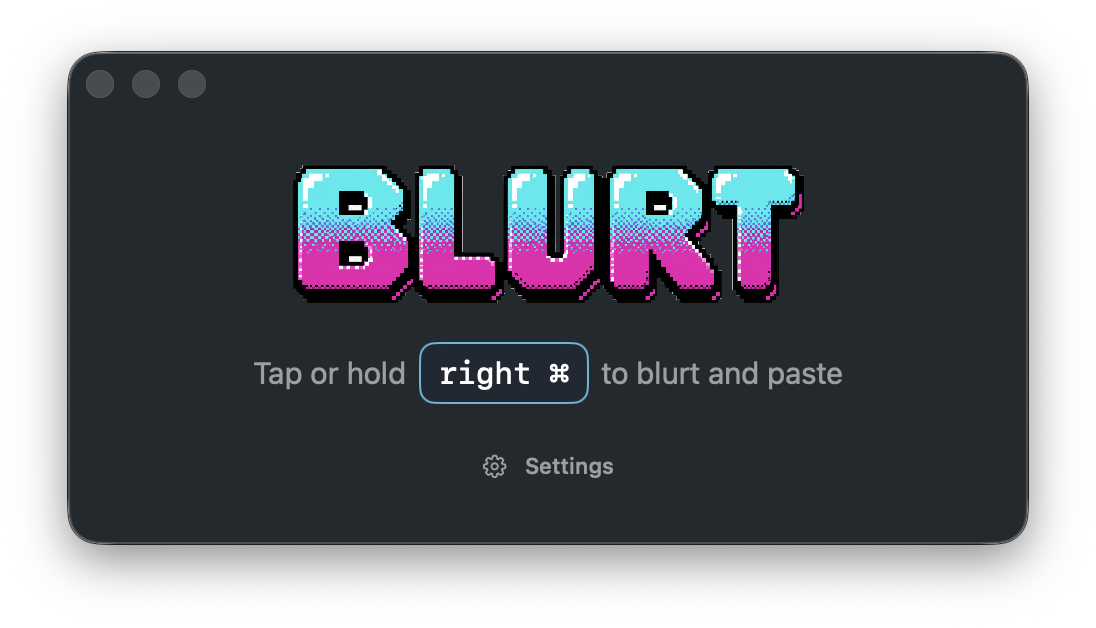
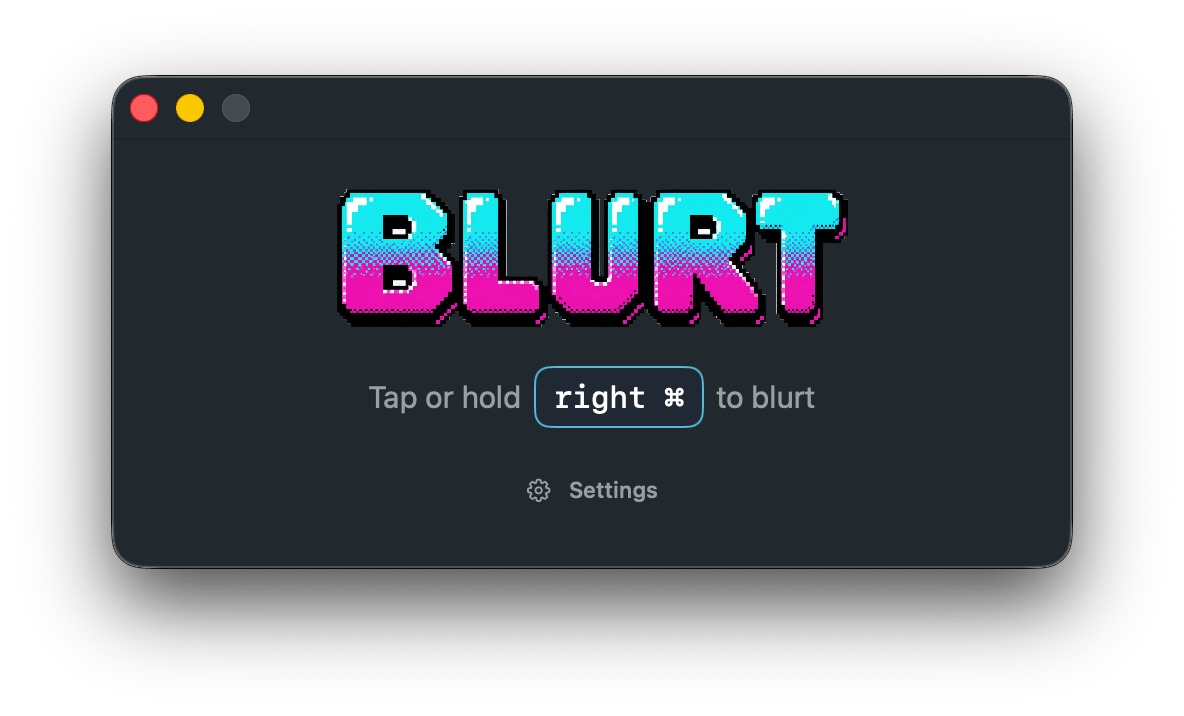
Refresh ready-screen shot; widen hero copy, shrink screenshot
Recapture the v0.1.24 ready screen (now reads "…to blurt", was "…to
blurt and paste") for the README and site, re-optimized to 76K. Update
image dimension attributes to the new 1184x716 aspect to avoid layout
shift. Widen the hero's left copy column (540px -> 620px) and reduce the
hero screenshot cap (655px -> 520px).

diff --git a/site/index.html b/site/index.html
@@ -125,8 +125,8 @@
             class="shot"
             src="assets/blurt.png"
             alt="Blurt's ready screen: tap or hold the hotkey, speak, and transcribed text is pasted into the focused app"
-            width="1096"
-            height="628"
+            width="1184"
+            height="716"
             fetchpriority="high"
           />
         </figure>

diff --git a/site/styles.css b/site/styles.css
@@ -123,7 +123,7 @@ a {
 .hero {
   flex: 1;
   display: grid;
-  grid-template-columns: minmax(360px, 540px) minmax(0, 1fr);
+  grid-template-columns: minmax(360px, 620px) minmax(0, 1fr);
   align-items: center;
   gap: clamp(32px, 5vw, 64px);
   padding: clamp(24px, 5vh, 54px) 0 22px;
@@ -239,7 +239,7 @@ h1 {
 
 .demo {
   margin: 0;
-  width: min(100%, 655px);
+  width: min(100%, 520px);
   justify-self: end;
 }
 

diff --git a/README.md b/README.md
@@ -45,7 +45,7 @@
     src=".github/images/blurt.png"
     alt="Blurt's ready screen: tap or hold the hotkey, speak, and transcribed text is pasted into the focused app"
     width="760"
-    height="435"
+    height="460"
   />
 
 </div>